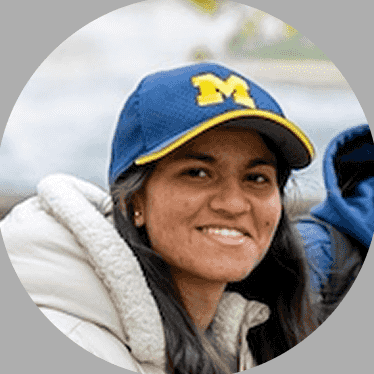
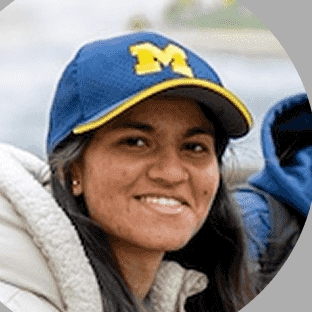
Reorder projects, trim About, restyle MHNSC card sort, anonymize people
- Home cards now run newest first: Intranet, MHNSC, Microsite, Cardamom.
- About: drop the Let's connect buttons (already in the footer) and bring
  back more of Tanya's original bio; the photo fills its column to balance.
- MHNSC: card sort rebuilt as a CardSort component in the portfolio style,
  new higher-resolution persona photos, real people's names, pronouns and
  faces removed or blurred, and an all-rights-reserved-to-MHNSC notice per
  the project NDA.
- Persona photos across case studies re-cropped so heads are centred.
- Footer reads "Made with love (and some stress on the side)".

Claude-Session: https://claude.ai/code/session_017w7Mvgsxd7BC9xXoSw9Mp9

diff --git a/src/lib/mdx-components.ts b/src/lib/mdx-components.ts
@@ -1,5 +1,6 @@
 // Components available inside every case-study MDX file without importing them.
 import Callout from '../components/case-study/Callout.astro';
+import CardSort from '../components/case-study/CardSort.astro';
 import Cards from '../components/case-study/Cards.astro';
 import Compare from '../components/case-study/Compare.astro';
 import Expandable from '../components/case-study/Expandable.astro';
@@ -18,6 +19,7 @@ import TwoColumn from '../components/case-study/TwoColumn.astro';
 
 export const mdxComponents = {
   Callout,
+  CardSort,
   Cards,
   Compare,
   Expandable,

diff --git a/CLAUDE.md b/CLAUDE.md
@@ -56,8 +56,13 @@ public/                  # files served as-is (favicon, og image, robots.txt, cu
 - File name = slug = URL (`dpss-intranet.mdx` → `/work/dpss-intranet`). Use kebab-case.
 - `status: coming-soon` shows a non-linked card and generates no page; `status: published`
   generates `/work/<slug>`.
-- Card order on the home page comes from `order` (ascending). "Next project" follows the same
-  order and skips coming-soon projects.
+- Card order on the home page comes from `order` (ascending), newest project first: DPSS Intranet (1),
+  MHNSC (2), DPSS Microsite (3), Cardamom (4). "Next project" follows the same order and skips
+  coming-soon projects.
+- **Privacy / NDA:** never name real people (clients, teammates, participants) or use their pronouns;
+  say "the client team", "a participant". Blur names, emails and faces of real people in screenshots.
+  MHNSC work is under an NDA: keep the "All rights reserved to MHNSC" callout at the top and the
+  rights note at the end of that case study, and never imply the team owns the work.
 - Case-study body order: Problem → My Role → Process → Research Insights → Design Decisions →
   Outcome.
 - Site-wide text and links go in `src/data/site.ts`, not inline in components.
@@ -135,13 +140,14 @@ before the first `##` (e.g. a confidentiality `<Callout>`) sits under Overview.
 
 **Interactive blocks (use to cut text, not to hide the story):**
 
-| Component                                                                                                  | Use                                                                                                                                                     |
-| ---------------------------------------------------------------------------------------------------------- | ------------------------------------------------------------------------------------------------------------------------------------------------------- |
-| `<Cards cols={2\|3\|4} numbered? items={[{title, text, tags?}]} />`                                        | turn "Label: explanation" lists into scannable cards                                                                                                    |
-| `<Expandable title="…">markdown</Expandable>` (owner disliked these on the Microsite; avoid)               | secondary detail ("read more"); native `<details>`                                                                                                      |
-| `<Personas personas={[{name, archetype, photo, age, occupation, context, goals, needs, frustrations}]} />` | persona tabs (Lauren Beck–style; one persona = no tabs); photos are circle crops `…-photo.png`; optional `details`, `columns`, `profile` (1–5), `quote` |
-| `<Compare id beforeLabel afterLabel>` + `<div slot="before">` / `<div slot="after">`                       | before/after toggle                                                                                                                                     |
-| `<Figure … arrow />`                                                                                       | arrow between two images (flow A → B)                                                                                                                   |
+| Component                                                                                                  | Use                                                                                                                                                                                                      |
+| ---------------------------------------------------------------------------------------------------------- | -------------------------------------------------------------------------------------------------------------------------------------------------------------------------------------------------------- |
+| `<Cards cols={2\|3\|4} numbered? items={[{title, text, tags?}]} />`                                        | turn "Label: explanation" lists into scannable cards                                                                                                                                                     |
+| `<Expandable title="…">markdown</Expandable>` (owner disliked these on the Microsite; avoid)               | secondary detail ("read more"); native `<details>`                                                                                                                                                       |
+| `<Personas personas={[{name, archetype, photo, age, occupation, context, goals, needs, frustrations}]} />` | persona tabs (Lauren Beck–style; one persona = no tabs); photos are square crops `…-photo.png/jpg` with the **head centered** (check every one); optional `details`, `columns`, `profile` (1–5), `quote` |
+| `<Compare id beforeLabel afterLabel>` + `<div slot="before">` / `<div slot="after">`                       | before/after toggle                                                                                                                                                                                      |
+| `<CardSort id sorts={[{label, groups:[{title, cards, highlight?}]}]} confusing={[…]} />`                   | card-sort results in portfolio style, toggle per participant (never paste Miro screenshots)                                                                                                              |
+| `<Figure … arrow />`                                                                                       | arrow between two images (flow A → B)                                                                                                                                                                    |
 
 Every `<Figure>` image gets a ⤢ magnifier that opens `Lightbox.astro` (fit / actual size).
 Stat numbers count up on scroll; cards stagger in. All of it degrades to plain visible content
@@ -178,9 +184,8 @@ photos (e.g. 4032px sketch scans) are saved as ~2400px JPGs; screenshots stay PN
 
 `src/pages/about.astro`: scrapbook polaroid portrait (`tanya-portrait-flowers.jpg`, shown
 uncropped and unedited at its own 2:3 ratio, per the owner; washi tape, twinkling star doodles,
-straightens on hover), photo and text columns vertically centred so they balance, a short bio
-(condensed from Framer; keep it about this length) with a hand-drawn squiggle under the key phrase, facts list, Let's
-connect buttons, then an Experience list from `src/data/experience.ts` (orgs newest first; orgs
+straightens on hover), photo and text columns vertically centred so they balance, a bio
+(mostly the owner's original Framer wording; the photo fills its column on `lg` to balance it) with a hand-drawn squiggle under the key phrase, facts list (no "Let's connect" buttons: the owner removed them as redundant with the footer), then an Experience list from `src/data/experience.ts` (orgs newest first; orgs
 with several roles show a ✦ timeline). The Framer "Wonder Who I Am?" cat section was removed on
 purpose. Edit roles/dates in the data file, not the page.
 
